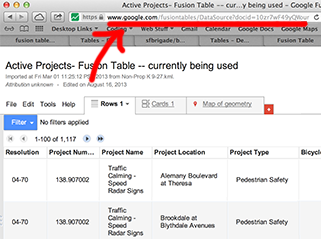
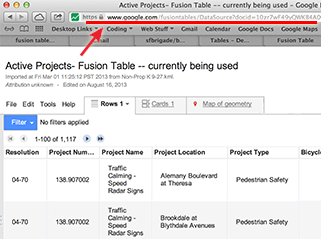
more demo page improvements
- use non-freehand drawing to point to url
- add warning to settings file not to use this branch

Changed region(s): [[0.0, 0.0, 1.0, 0.3515], [0.5919, 0.2636, 0.7477, 0.2929], [0.81, 0.4393, 0.8723, 0.4979]]

diff --git a/index.html b/index.html
@@ -38,7 +38,7 @@
   <hr>
 
   <img src="readme-images/url-screenshot.png" align="right">
-<h4>Create Your Own Demo</h4>
+  <h4>Create Your Own Demo</h4>
     <p>This will take you to a working site that uses your own table's data, title, description, and infobox content, with a search field or range slider for each column. If you launch this on your device and hit "Add to Home Screen", it will have the look and feel of a mobile app.</p>
     <p>Paste your Fusion Table URL here (see right):</p>
     <p><input class='input-block-level' size="43" type="text" id='table_id' placeholder='You can also just paste your Fusion Table ID' type='text' /></p>
@@ -49,30 +49,31 @@
 
   <a href="https://github.com/sfbrigade/Mobile-Fusion-Tables" target="_blank"><img src="readme-images/map.png" align="right" border="0"></a>
 
-<h4>Examples</h4>
-<p>While the above creates a basic demo with your data, you can then customize and override many aspects of the app with the settings file.  Here are some examples:</p>
-<ul>
-  <li><a href="demo-USHealthCenters.html" target="_blank">US Health Centers</a>
-  <li><a href="demo-SFBanks.html" target="_blank">SF Bank Locations</a>
-  <li><a href="demo-SFFoodInspections.html" target="_blank">SF Food Inspections</a>
-  <li><a href="demo-SFLiquefaction.html" target="_blank">SF Liquefaction Data</a>
-  <li><a href="demo-MyStreetSF.html" target="_blank">SFCTA Projects</a>
-</ul>
-<hr>
+  <h4>Examples</h4>
+  <p>While the above creates a basic demo with your data, you can then customize and override many aspects of the app with the settings file.  Here are some examples:</p>
+  <ul>
+    <li><a href="demo-USHealthCenters.html" target="_blank">US Health Centers</a>
+    <li><a href="demo-SFBanks.html" target="_blank">SF Bank Locations</a>
+    <li><a href="demo-SFFoodInspections.html" target="_blank">SF Food Inspections</a>
+    <li><a href="demo-SFLiquefaction.html" target="_blank">SF Liquefaction Data</a>
+    <li><a href="demo-MyStreetSF.html" target="_blank">SFCTA Projects</a>
+  </ul>
+  <hr>
 
-<h4>Create Your Own Web App</h4>
-<p>Here's how:</p>
-<ol>
-<li><a href="https://github.com/sfbrigade/Mobile-Fusion-Tables" target="_blank">Clone our repository</a>.
-<li>Replace the FusionTable ID at the top of <a href="https://github.com/sfbrigade/Mobile-Fusion-Tables/blob/master/fusiontable_settings.js" target="_blank">fusiontable_settings.js</a> to point to your own table.
-</ol>
-<p>You now have your own equivalent of the demo.  To flesh it out like the examples above, explore the rest of the settings file to customize your content and behavior. See the <a href="https://github.com/sfbrigade/Mobile-Fusion-Tables/tree/master/samples" target="_blank">samples</a> folder to see how the examples were customized.</p>
+  <h4>Create Your Own Web App</h4>
+  <p>Here's how:</p>
+  <ol>
+  <li><a href="https://github.com/sfbrigade/Mobile-Fusion-Tables" target="_blank">Clone our repository</a>.
+  <li>Replace the FusionTable ID at the top of <a href="https://github.com/sfbrigade/Mobile-Fusion-Tables/blob/master/fusiontable_settings.js" target="_blank">fusiontable_settings.js</a> to point to your own table.
+  </ol>
+  <p>You now have your own equivalent of the demo.  To flesh it out like the examples above, explore the rest of the settings file to customize your content and behavior. See the <a href="https://github.com/sfbrigade/Mobile-Fusion-Tables/tree/master/samples" target="_blank">samples</a> folder to see how the examples were customized.</p>
 
-<hr>
-<h4>Acknowledgements</h4>
-<p>Mobile Fusion Tables was based on Derek Eder's <a href="https://github.com/derekeder/FusionTable-Map-Template" target="_blank">Fusion Table Searchable Map Template</a>.</p>
-<p>This is an SF Brigade project for Code for America.   Started by Mark Brenig-Jones, completed by Rego Sen, with contributions from Sidney Zhang and Andrew Byrne.</p>
-<br>
+  <hr>
+  <h4>Acknowledgements</h4>
+  <p>Mobile Fusion Tables was originally based on Derek Eder's <a href="https://github.com/derekeder/FusionTable-Map-Template" target="_blank">Fusion Table Searchable Map Template</a>.</p>
+  <p>This is an SF Brigade project for Code for America.   Started by Mark Brenig-Jones, completed by Rego Sen, with contributions from Sidney Zhang and Andrew Byrne.</p>
+  <br>
+
 </div>
 
   <script type="text/javascript">

diff --git a/fusiontable_settings.js b/fusiontable_settings.js
@@ -1,22 +1,11 @@
-/*!
- * Customization file for Fusion Table Mobile Templates
- * See maps_lib.js for license and repository
- *
- * REPLACE THE SETTINGS BELOW TO REFER TO YOUR OWN DATA.
- *
- * Required:
- * 1. Fusion Table IDs
- *
- * Overrides (optional):
- * 2. Search Settings
- *   - Default is a field for every column if you don't set this
- * 3. Custom Content
- *   - Title
- *   - About Page
- *   - Infobox (popup when you click on a location)
- * 4. Map Preferences
- *   - How It Should Use Your Nearby Location
- */
+/*
+  IF YOU CLONE THIS BRANCH,
+  YOU'RE GOING TO HAVE A BAD TIME.
+
+  Please clone the master branch instead.
+  This branch is for demonstration purposes only and isn't set up
+  for making your own app from the template.
+*/
 
 var MapsLib = MapsLib || {};
 
